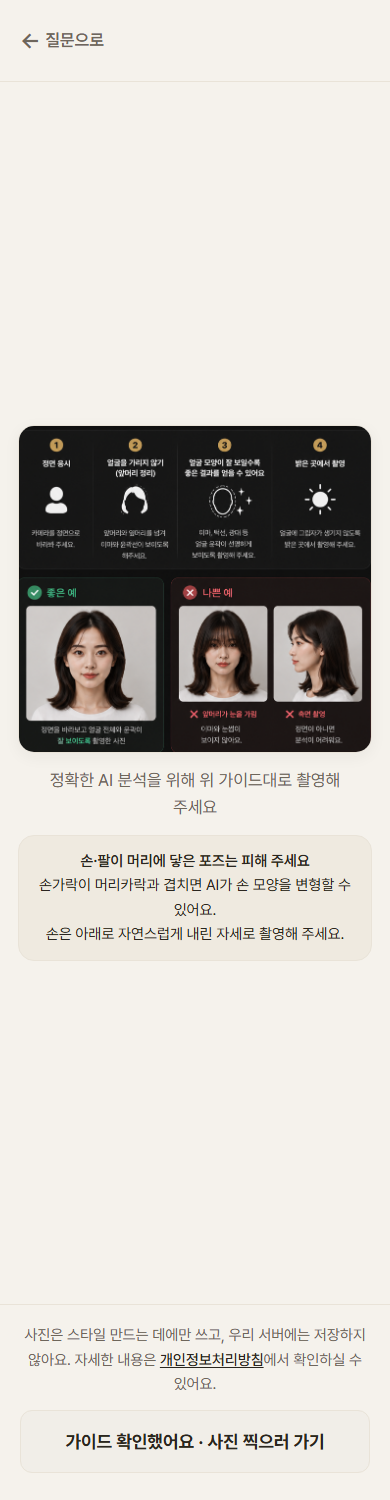
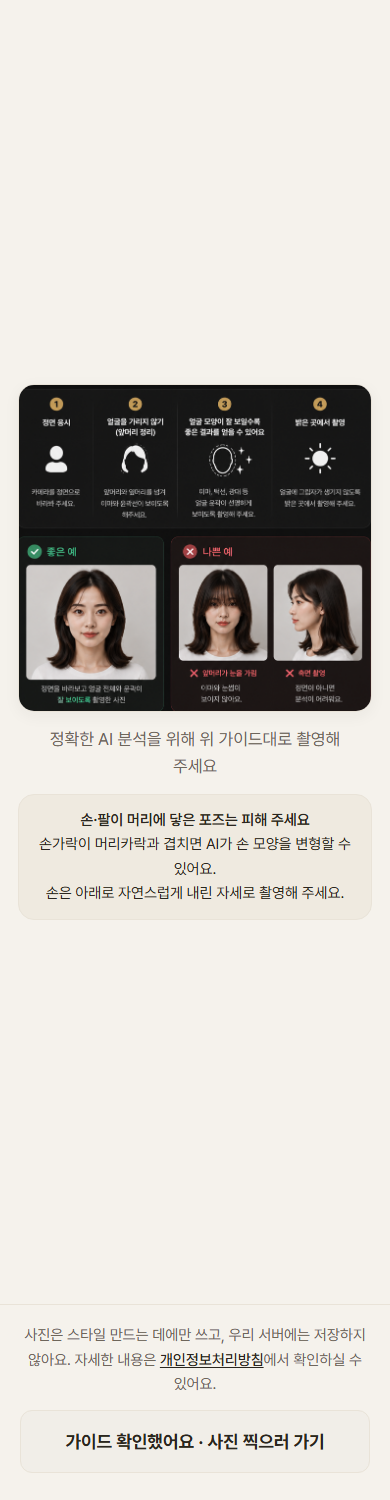
fix(ui-redesign): Codex 최종 반영 — 신규 nav 제거·워드마크15·잔여 터치56
- 업로드 PhotoGuide 에 넣었던 뒤로가기 헤더 제거(순수 신규 nav/routing →
  절대원칙 "시각만·무로직·무카피" 우선). 카메라 화면의 기존 '← 질문으로'는 그대로.
- MIALTIP 워드마크 13~14→15(style·damage 랜딩).
- damage 결과지 하단 공유·재진단·홈 링크 min-h-14, style 결과지 안전안내 링크 min-h-14.
- 문장·로직·계측 무변경. tsc 0.

Changed region(s): [[0.0308, 0.2453, 0.9538, 0.644], [0.1231, 0.0, 0.2769, 0.0307], [0.0615, 0.0, 0.0923, 0.0307]]

diff --git a/app/damage-check/result/page.tsx b/app/damage-check/result/page.tsx
@@ -367,16 +367,16 @@ export default function DamageCheckResultPage() {
           />
 
           {/* 공유 + 재진단 */}
-          <div className="flex flex-col items-center gap-3 pt-1">
-            <button onClick={handleKakaoShare} className="btn-textlink text-[15px]">
+          <div className="flex flex-col items-center gap-2 pt-1">
+            <button onClick={handleKakaoShare} className="btn-textlink inline-flex min-h-14 items-center text-[15px]">
               {kakaoSent ? "카카오톡 전송 완료 ✓" : "결과 공유하기"}
             </button>
             {copied && <p className="text-[15px] text-sub">✓ 링크가 복사됐어요</p>}
-            <Link href="/damage-check" className="text-[15px] font-medium text-sub transition-colors hover:text-ink">
+            <Link href="/damage-check" className="flex min-h-14 items-center font-medium text-[15px] text-sub transition-colors hover:text-ink">
               ↺ 처음부터 다시 하기
             </Link>
             {/* 홈 복귀 — 이 플로우엔 하단 3탭이 없어 저장 없이 홈으로 갈 길이 없던 문제(C-2 [3]). */}
-            <Link href="/home" className="text-[15px] font-medium text-sub transition-colors hover:text-ink">
+            <Link href="/home" className="flex min-h-14 items-center font-medium text-[15px] text-sub transition-colors hover:text-ink">
               홈으로 →
             </Link>
           </div>

diff --git a/app/style/upload/page.tsx b/app/style/upload/page.tsx
@@ -71,14 +71,6 @@ function PhotoGuide({ onConfirm }: { onConfirm: () => void }) {
     <SilkBackground>
       <main className="flex h-[100dvh] flex-col text-ink">
 
-        {/* ── 헤더 (뒤로가기 좌상단, P7) ── */}
-        <header className="flex flex-none items-center border-b border-line bg-bg px-page py-2">
-          <Link href="/style/survey"
-            className="-ml-2 inline-flex min-h-14 items-center gap-1 rounded-btn px-2 text-emphasis text-ink-2 transition-colors hover:text-ink">
-            <span aria-hidden className="text-xl leading-none">←</span> 질문으로
-          </Link>
-        </header>
-
         {/* 가이드 이미지 — 중앙 정렬 */}
         <div className="flex flex-1 items-center justify-center overflow-y-auto px-4 py-6">
           <div className="w-full max-w-sm">

diff --git a/app/damage-check/page.tsx b/app/damage-check/page.tsx
@@ -42,7 +42,7 @@ export default function DamageCheckLandingPage() {
           transition={{ duration: 0.65, ease: [0.22, 1, 0.36, 1] }}
           className="flex w-full max-w-sm flex-col items-center text-center"
         >
-          <span className="font-serif text-[13px] tracking-[0.3em] text-sub">MIALTIP</span>
+          <span className="font-serif text-[15px] tracking-[0.3em] text-sub">MIALTIP</span>
           <p className="mt-1.5 text-aux text-sub">미용실에서 알 수 없는 꿀팁</p>
 
           {/* 히어로 — 상한 결 1장(정사각·라벨 없음). 2장 세로배치가 무거워 1장으로 축소(C-2).

diff --git a/app/style/page.tsx b/app/style/page.tsx
@@ -83,7 +83,7 @@ export default function StyleLandingPage() {
           className="flex w-full flex-col items-center text-center"
         >
           {/* 브랜드 배지 (명조) + 태그라인 */}
-          <span className="font-serif text-[14px] tracking-[0.3em] text-sub">MIALTIP</span>
+          <span className="font-serif text-[15px] tracking-[0.3em] text-sub">MIALTIP</span>
           <p className="mt-1.5 text-aux text-sub">미용실에서 알 수 없는 꿀팁</p>
 
           {/* 액자 히어로 — 첫 화면에 헤드라인·CTA가 함께 보이도록 폭 축소(유일한 흰 카드) */}

diff --git a/app/style/result/page.tsx b/app/style/result/page.tsx
@@ -312,7 +312,7 @@ function SafetyNotice({ entries }: { entries: ResolvedCopy[] }) {
         ))}
       </div>
       <Link href="/damage-check"
-        className="mt-1.5 inline-flex items-center gap-1 text-[15px] font-semibold text-amber-700 underline underline-offset-2">
+        className="mt-1.5 inline-flex min-h-14 items-center gap-1 text-[15px] font-semibold text-amber-700 underline underline-offset-2">
         정밀 손상 진단 받아보기 →
       </Link>
     </div>
